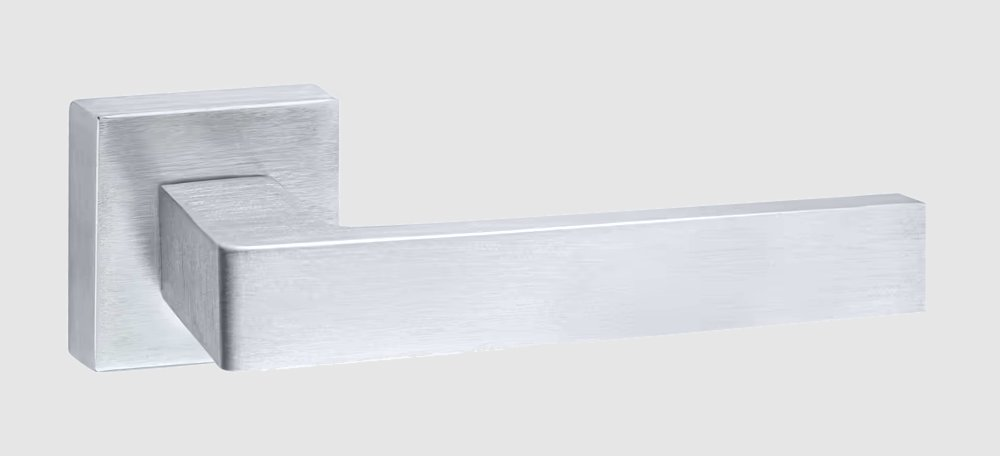
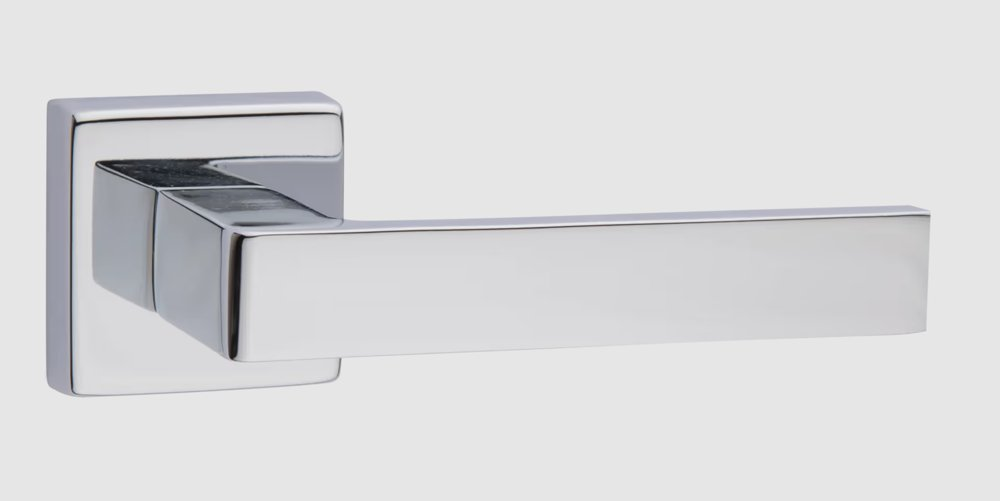
Use real Quadra cromo lucido photo, drop ottone lucido
Replace the derived Quadra cromo lucido with the real Fimet polished-chrome
photo (ICE 168/211B F04), and remove the ottone lucido variant entirely for
now.

Claude-Session: https://claude.ai/code/session_01SYbLEHrHDazYs6QDy6pjsm

Changed region(s): [[0.031, 0.1842, 0.93, 0.8289], [0.31, 0.7061, 0.341, 0.7675]]

diff --git a/src/Catalogo.jsx b/src/Catalogo.jsx
@@ -9,7 +9,6 @@ import gocciaCromoLuc from './assets/prodotti/goccia-cromo-lucido.jpg';
 import gocciaOttoneLuc from './assets/prodotti/goccia-ottone-lucido.jpg';
 import quadraCromoSat from './assets/prodotti/quadra-cromo-satinato.jpg';
 import quadraCromoLuc from './assets/prodotti/quadra-cromo-lucido.jpg';
-import quadraOttoneLuc from './assets/prodotti/quadra-ottone-lucido.jpg';
 
 const CATEGORIES = [
   { id: '01', nome: 'Maniglie per porte e per finestre', attiva: true },
@@ -39,12 +38,10 @@ const PRODUCTS = [
   { id: 2, categoria: '01', nome: 'Quadra', materiale: 'Zama / Zinc', sottocategoria: 'Maniglie per porte', dimensioni: '50x127mm', fornitore: 'Fimet', fornitoreLogo: fimetLogo,
     immagini: {
       'Cromo satinato': quadraCromoSat,
-      'Cromo lucido': quadraCromoLuc,
-      'Ottone lucido': quadraOttoneLuc
+      'Cromo lucido': quadraCromoLuc
     }, varianti: [
     { codice: '168201B05', finitura: 'Cromo satinato', versione: 'Patent' },
-    { codice: '168201B04', finitura: 'Cromo lucido', versione: 'Patent' },
-    { codice: '168201B01', finitura: 'Ottone lucido', versione: 'Patent' } ] },
+    { codice: '168201B04', finitura: 'Cromo lucido', versione: 'Patent' } ] },
   { id: 3, categoria: '01', nome: 'Angolo', materiale: 'Alluminio', sottocategoria: 'Maniglie per porte', dimensioni: '144x50mm', fornitore: 'Generico', varianti: [
     { codice: '448RB0880COS', finitura: 'Oro satinato', versione: 'Patent' },
     { codice: '448RB0880CBR', finitura: 'Bronzo', versione: 'Patent' },
